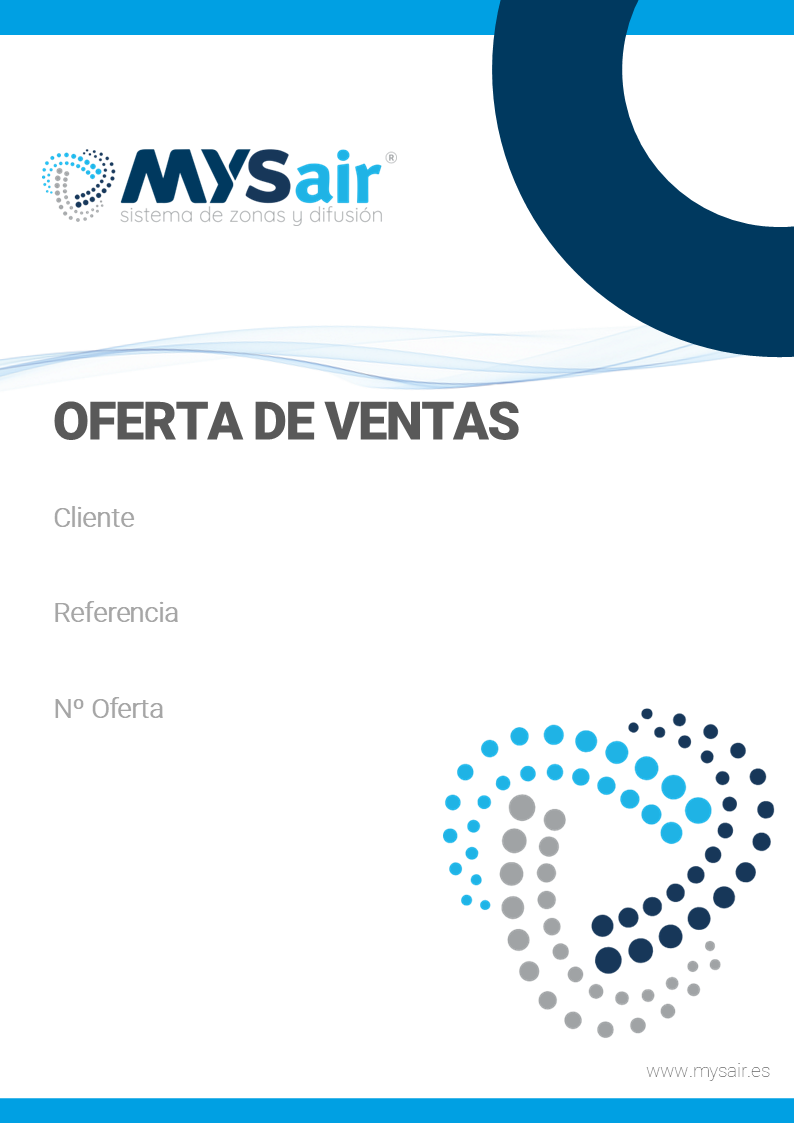
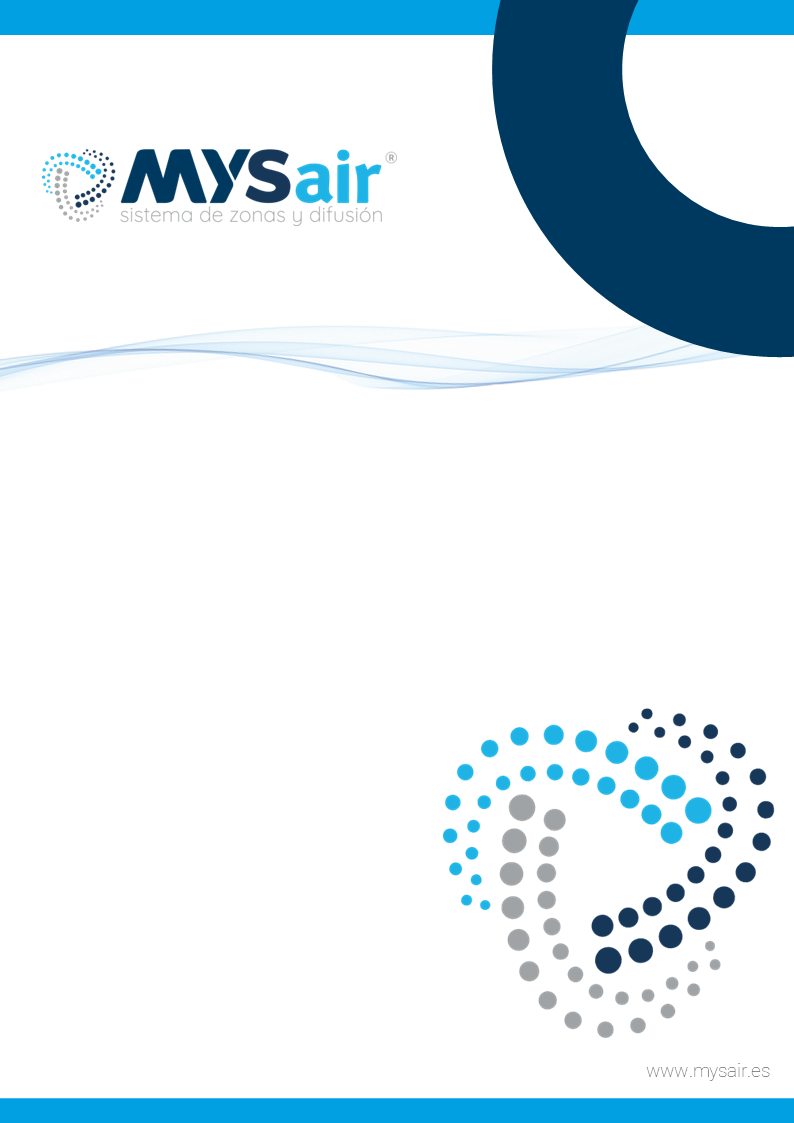
feat: update cover PNG and increase text sizes for dynamic fields\n\nModify cover and PDF code for larger "SALE OFFER" text and client fields.

diff --git a/app/api/offers/[id]/pdf/route.ts b/app/api/offers/[id]/pdf/route.ts
@@ -101,32 +101,33 @@ export async function GET(
     }
 
     // Overlay dynamic data — positions calibrated to match the template layout
-    // "OFERTA DE VENTAS" is static on the image; we only write the field values
-
-    // "Cliente" label is at ~44% height, value below it
     const labelColor: [number, number, number] = [100, 110, 120]
     const valueColor: [number, number, number] = [50, 60, 80]
     const fieldX = coverW * 0.085
     const labelSize = 9
-    const valueSize = 11
+    const valueSize = 18  // Increased from 11 to 18
+
+    // "OFERTA DE VENTAS" title — large centered text
+    doc.setFontSize(26).setFont('helvetica', 'bold').setTextColor(50, 60, 80)
+    doc.text('OFERTA DE VENTAS', fieldX, coverH * 0.38)
 
     // Cliente
     doc.setFontSize(labelSize).setFont('helvetica', 'normal').setTextColor(...labelColor)
     doc.text('Cliente', fieldX, coverH * 0.455)
     doc.setFontSize(valueSize).setFont('helvetica', 'bold').setTextColor(...valueColor)
-    doc.text(offer.customer?.company_name || '-', fieldX, coverH * 0.479)
+    doc.text(offer.customer?.company_name || '-', fieldX, coverH * 0.495)
 
     // Referencia
     doc.setFontSize(labelSize).setFont('helvetica', 'normal').setTextColor(...labelColor)
     doc.text('Referencia', fieldX, coverH * 0.535)
     doc.setFontSize(valueSize).setFont('helvetica', 'bold').setTextColor(...valueColor)
-    doc.text(offer.title || '-', fieldX, coverH * 0.559)
+    doc.text(offer.title || '-', fieldX, coverH * 0.575)
 
     // Nº Oferta
     doc.setFontSize(labelSize).setFont('helvetica', 'normal').setTextColor(...labelColor)
     doc.text('Nº Oferta', fieldX, coverH * 0.615)
     doc.setFontSize(valueSize).setFont('helvetica', 'bold').setTextColor(...valueColor)
-    doc.text(offerNum, fieldX, coverH * 0.639)
+    doc.text(offerNum, fieldX, coverH * 0.655)
 
     // Now add a new page for the offer content
     doc.addPage()
